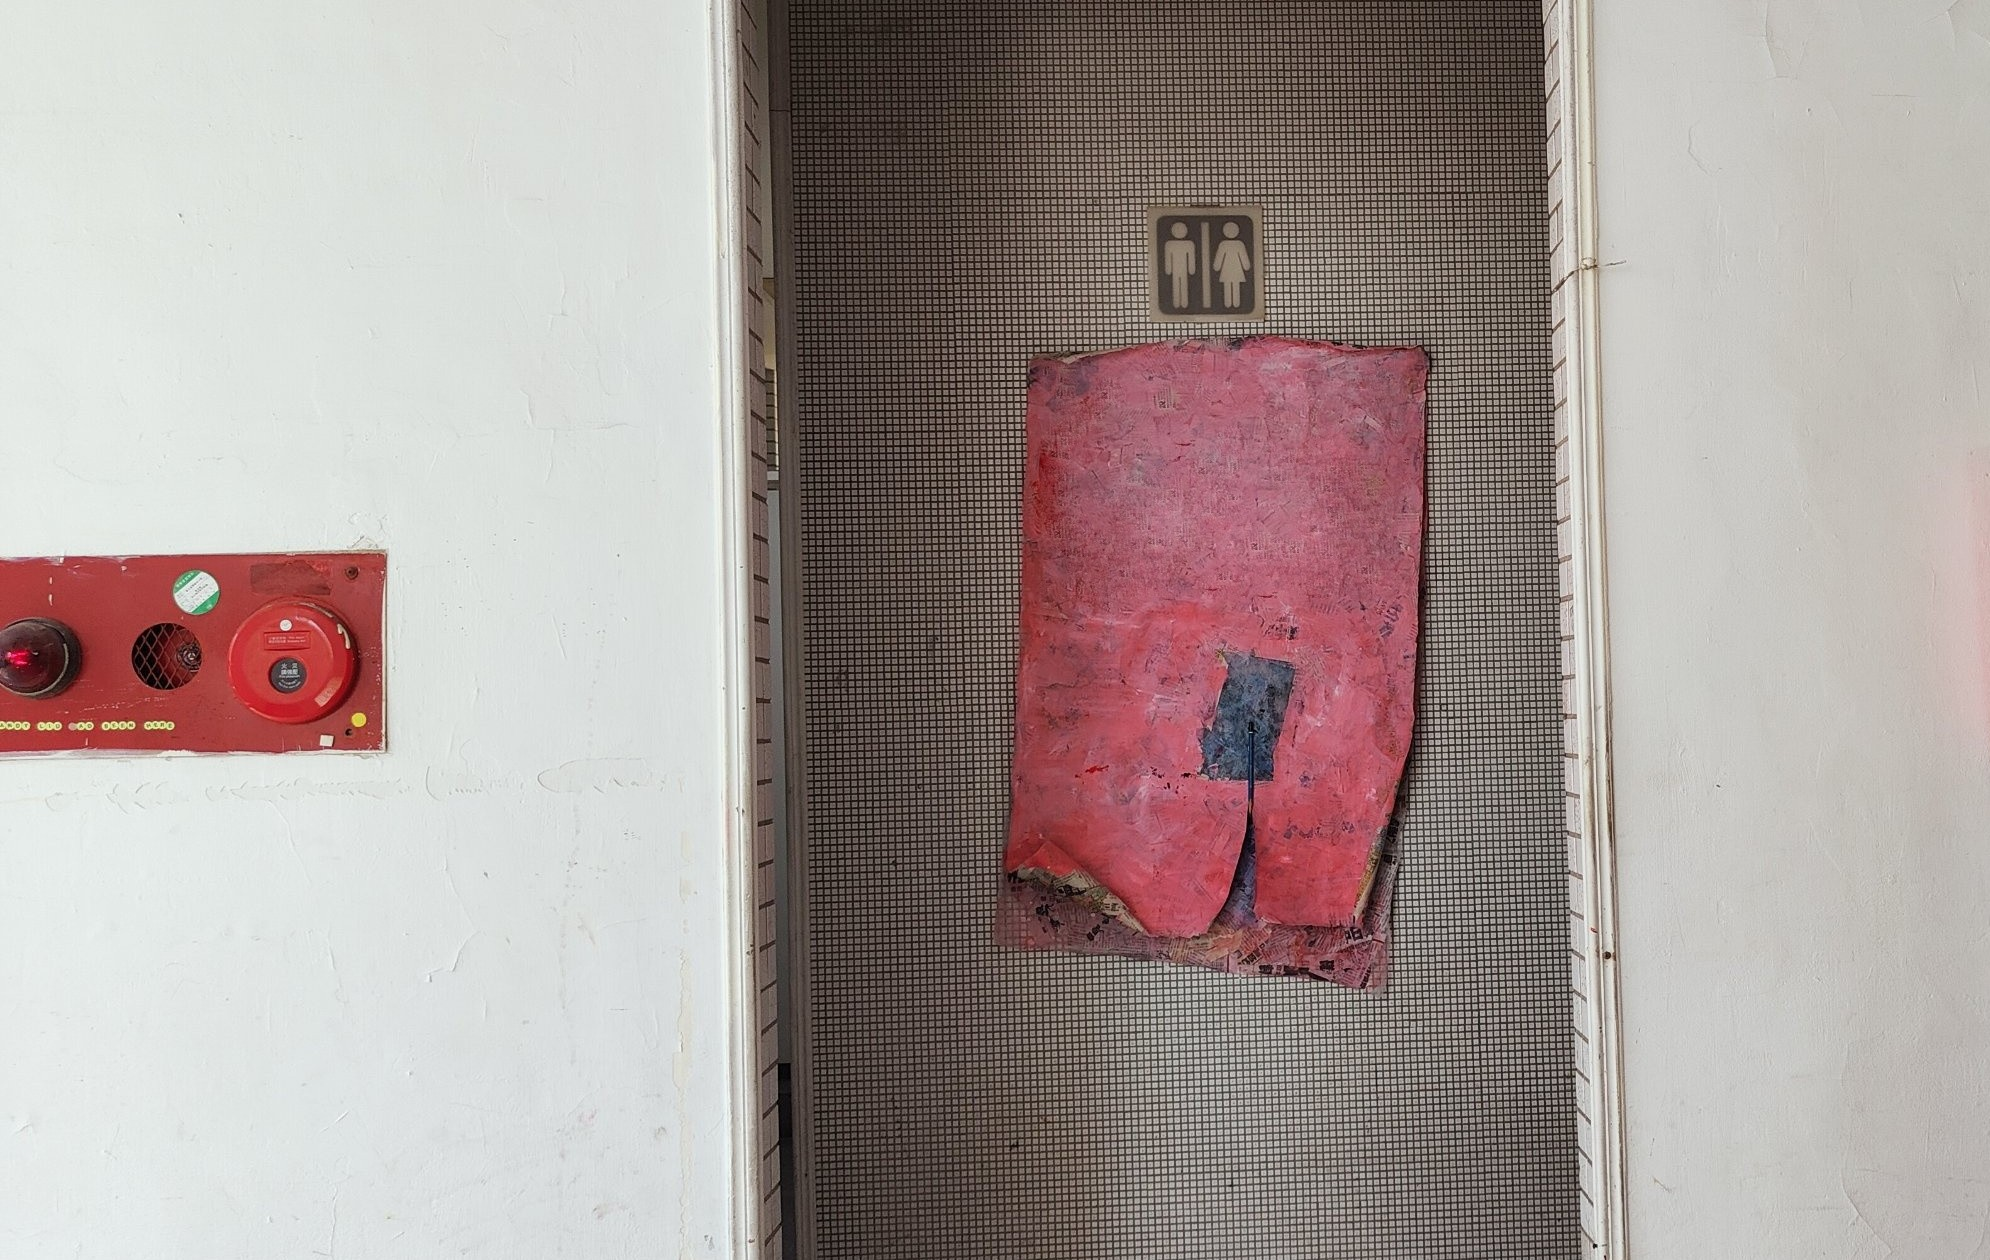
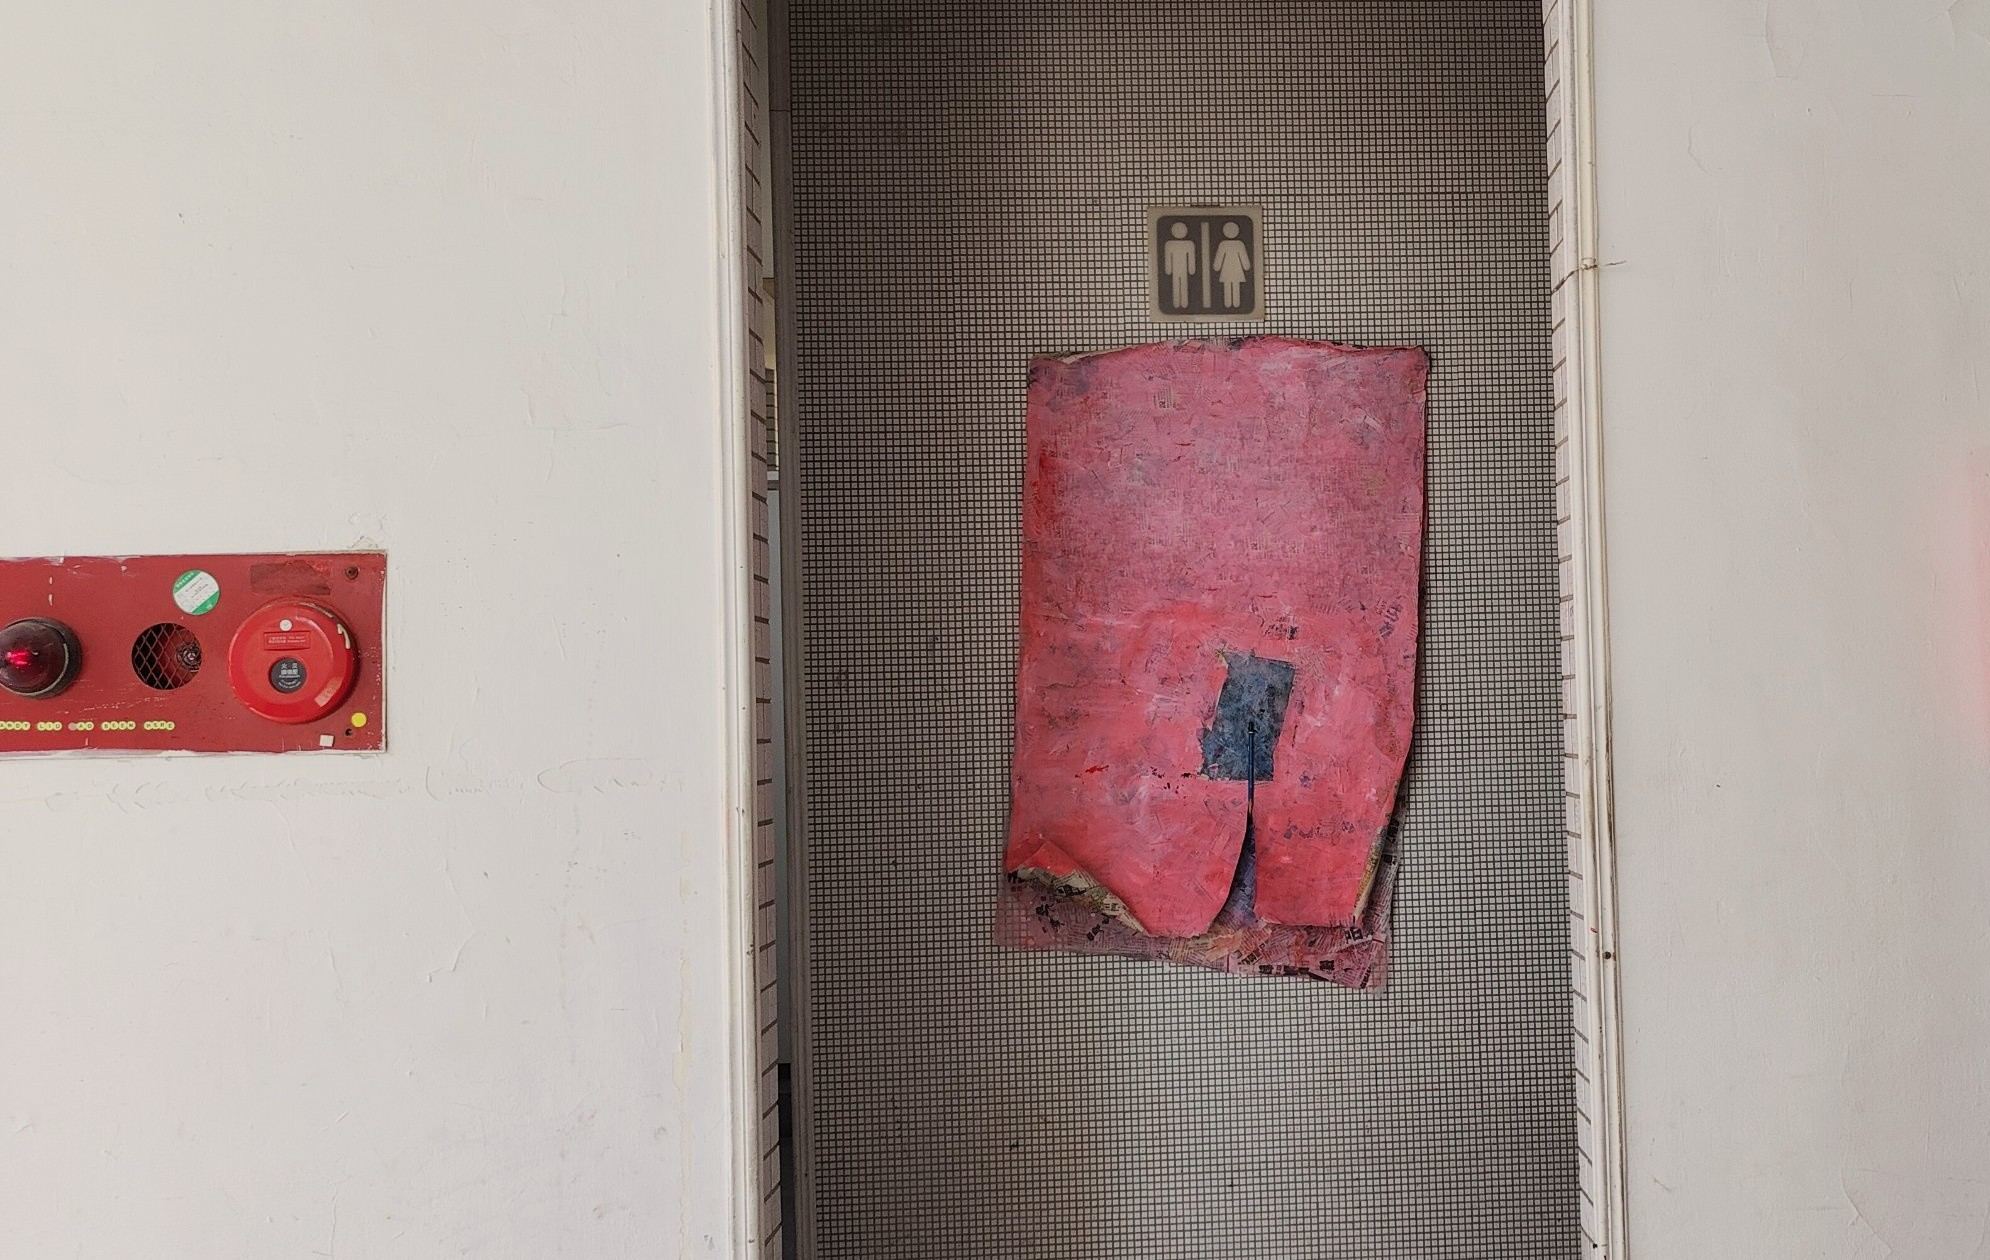
Draft: bolder ex libris, tone down bright wall, 2026 label
Claude-Session: https://claude.ai/code/session_01Hq4tdmSpCTtjdqxRpwdXVc

Changed region(s): [[0.0, 0.5881, 0.2181, 1.0], [0.0, 0.0929, 0.1869, 0.4643], [0.3427, 0.031, 0.3739, 1.0]]

diff --git a/index.html b/index.html
@@ -196,12 +196,14 @@ main { position: relative; margin-left: var(--side-w); padding-inline: clamp(28p
 .w-solo { grid-template-columns: minmax(0, 1fr) minmax(0, 1fr); }
 .w-solo > :only-child { grid-column: 1; }
 .w-stack .plate img { filter: sepia(.16) saturate(1.04) brightness(1.02); }
+.w-stack #w-woodcut .plate img { filter: contrast(1.12) saturate(1.15); }
+.w-stack #w-pink .plate img { filter: none; }
 .w-stack-head { margin: 0 0 28px 8%; }
 .w-stack-head h3 { margin: 4px 0 0; }
 .w-stack-head em { font-family: var(--serif); font-size: .8em; opacity: .75; margin-left: 6px; }
 .w-stack { position: relative; display: flex; flex-direction: column; padding-bottom: 20px; }
 .w-stack .w-oil2 { position: relative; padding: 18px 18px 24px; }
-.w-stack #w-woodcut { width: 46%; align-self: flex-end; margin-right: 6%; z-index: 3; --r: 1.6deg; }
+.w-stack #w-woodcut { width: 58%; align-self: flex-end; margin-right: 6%; z-index: 3; --r: 1.6deg; }
 .w-stack #w-figure { width: 36%; margin: 40px 0 0 -6%; z-index: 2; --r: -1.8deg; }
 .w-stack .w-row { display: flex; align-items: center; margin-top: -90px; position: relative; z-index: 1; }
 .w-stack #w-pink { width: 64%; margin: 0 0 0 2%; z-index: 1; --r: 1.2deg; }
@@ -473,7 +475,7 @@ main { position: relative; margin-left: var(--side-w); padding-inline: clamp(28p
           <div class="plate scrap m-card t-shell" data-amp="4" data-style="cut" data-lift=".05" style="aspect-ratio:1030/760"><img src="img/studio-woodcut.jpg" alt="藏書票（木口木刻版畫），紫紅色：方框內一道像嘴唇或地平線的形狀，下方是兩行手刻的古英文字" loading="lazy" style="width:100%;height:100%;object-fit:cover;display:block"></div>
           <span class="tagline">Ex libris · Wood engraving</span>
           <h3>藏書票</h3>
-          <p class="meta">重製版本</p>
+          <p class="meta">2026・重製版本</p>
         </article>
         <div class="w-row">
         <article class="work w-oil2 scrap m-writing t-blush reveal" id="w-pink" data-amp="9" data-lift=".4">
